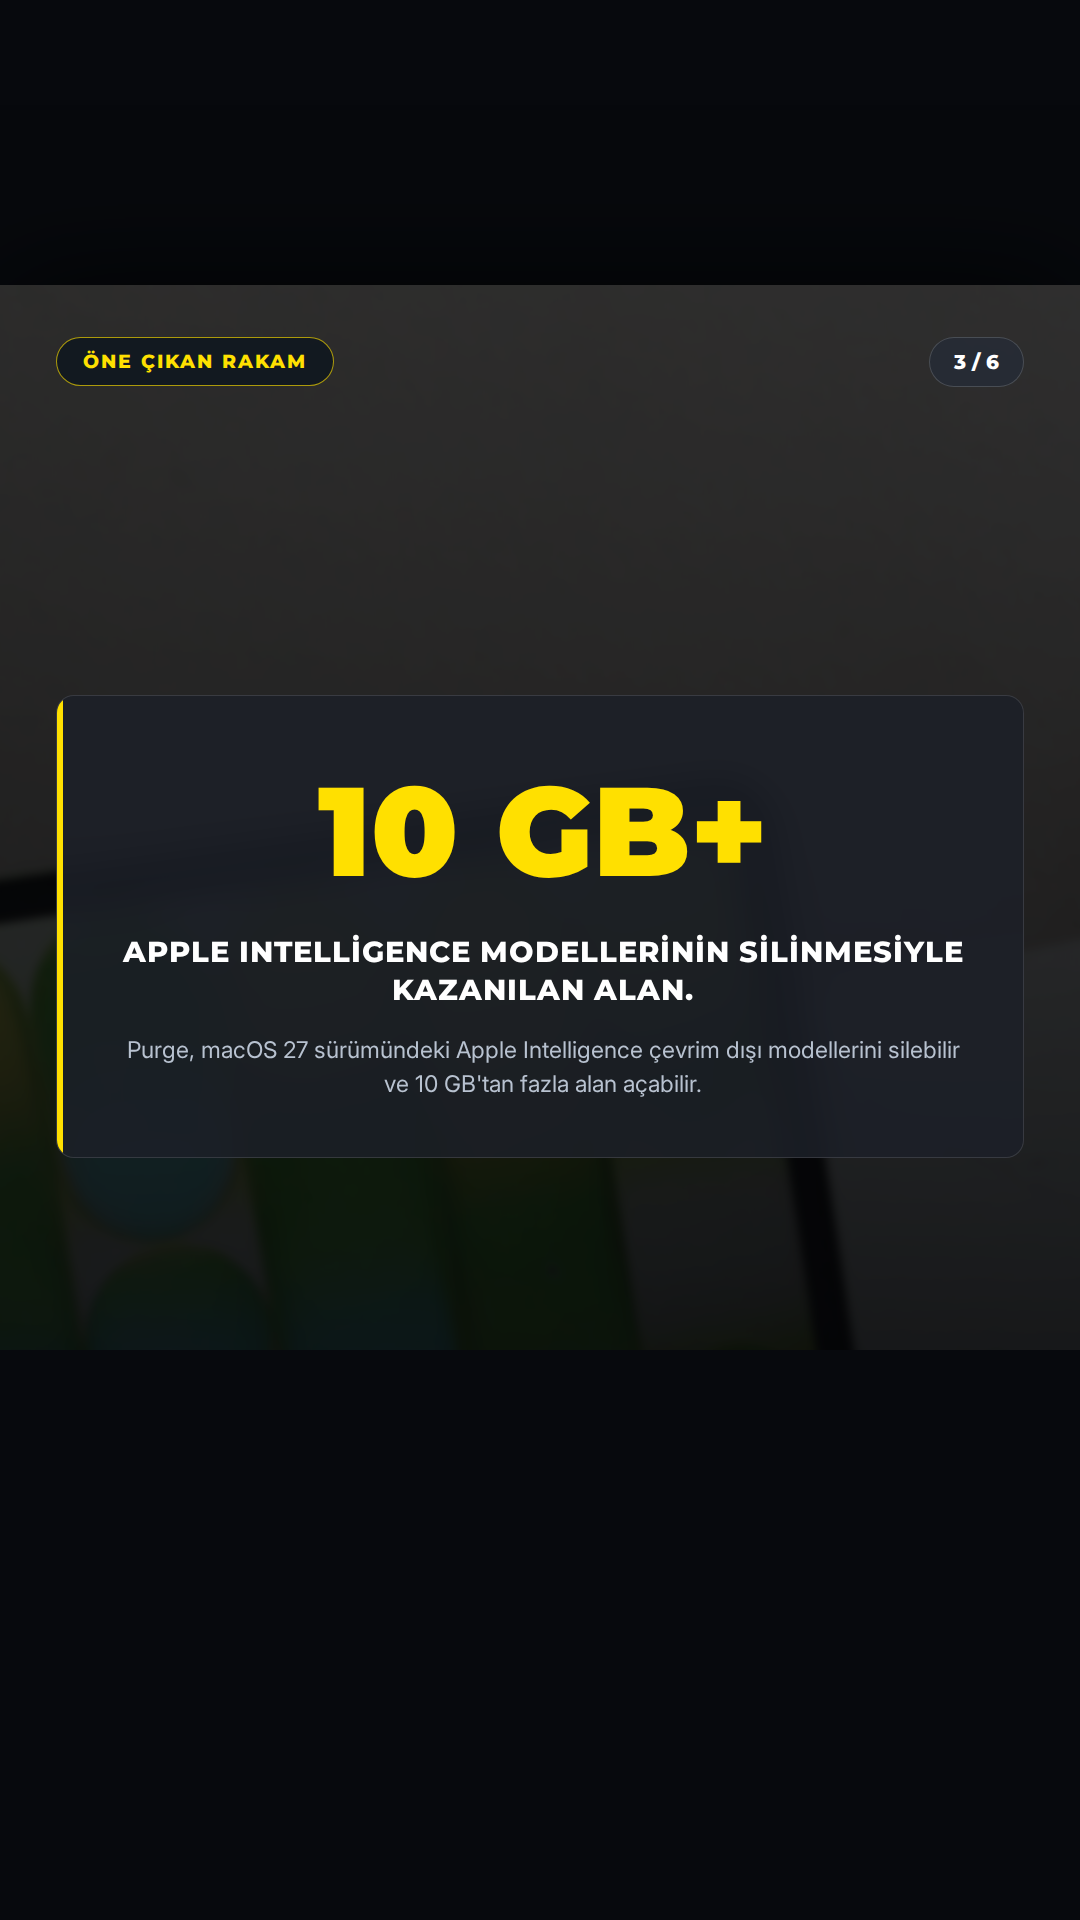
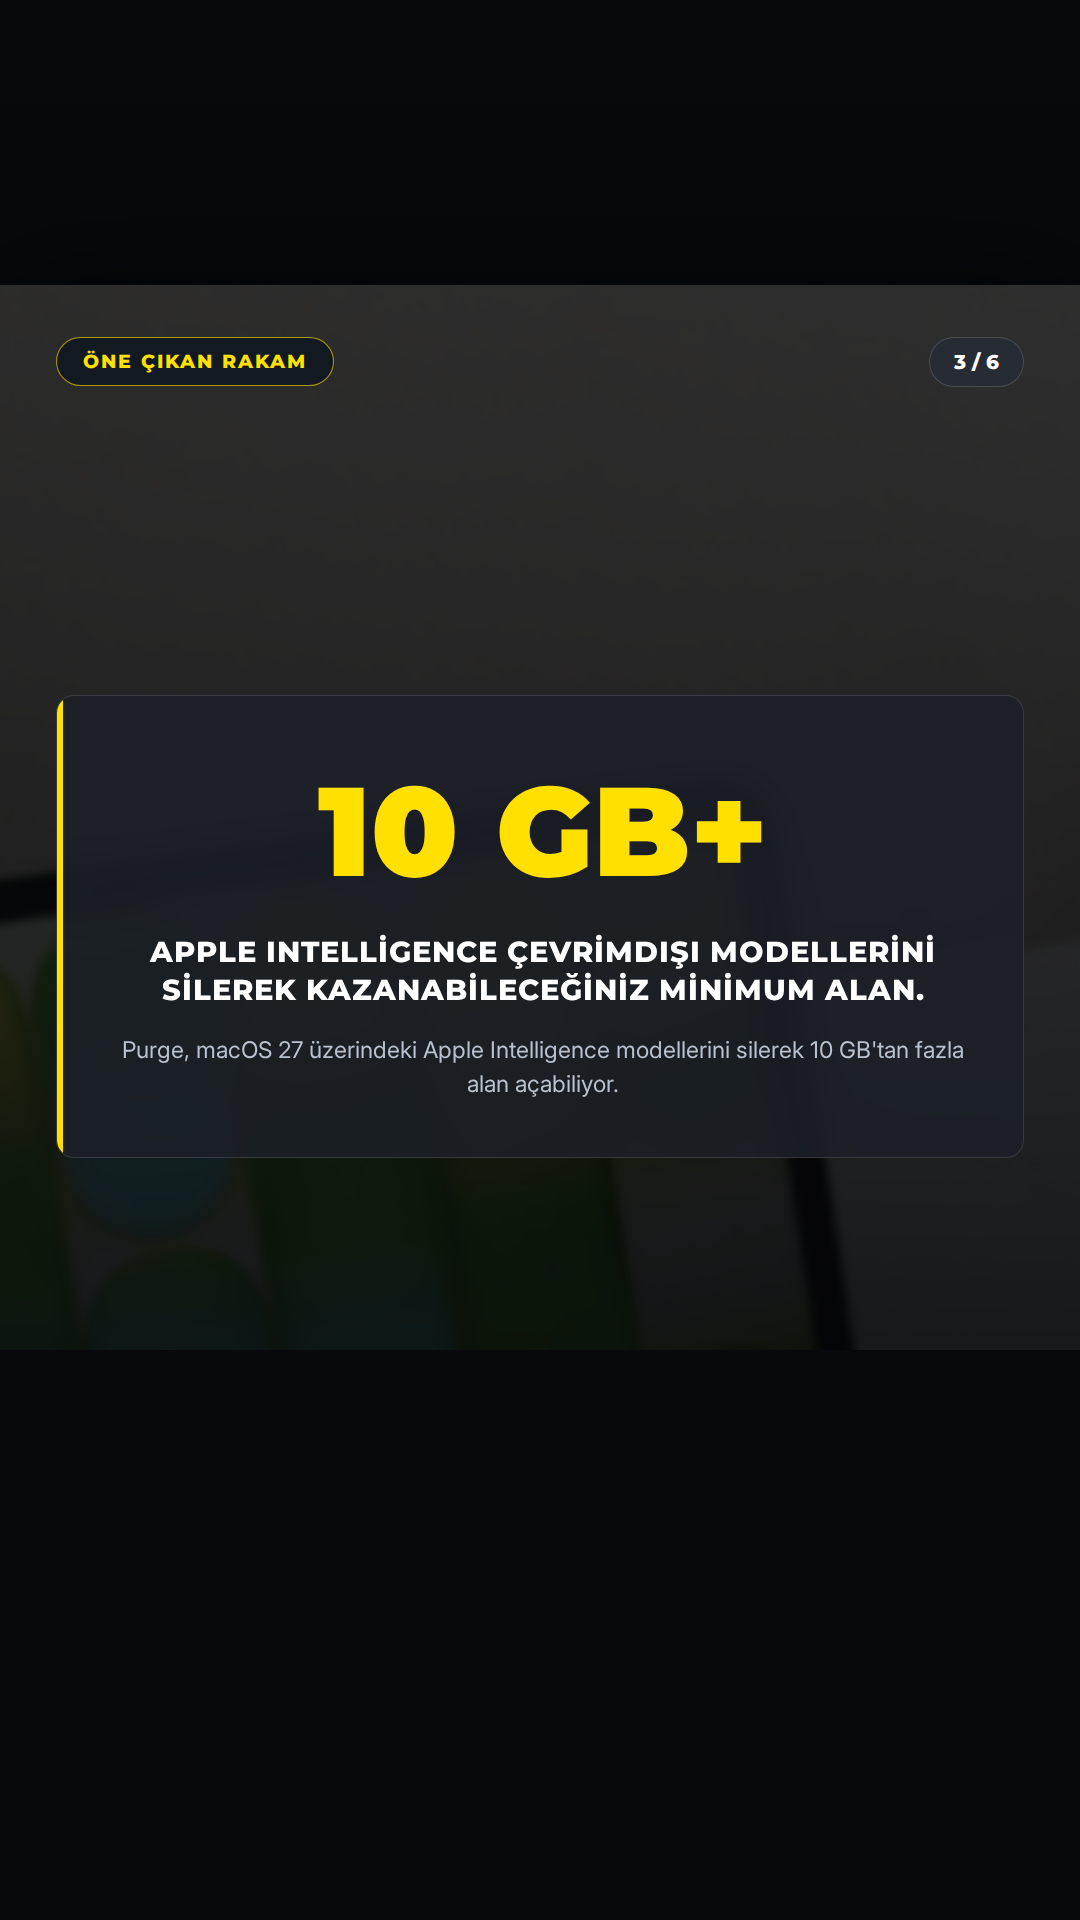
🤖 post: 2026-11-07 09:00 – This Totally Free App Can Free Up Space on Your Mac

Changed region(s): [[0.1222, 0.4688, 0.8861, 0.5938]]

diff --git a/output/2026-11-07/01-0900-this-totally-free-app-can-free-up-space-on-your/verification.md b/output/2026-11-07/01-0900-this-totally-free-app-can-free-up-space-on-your/verification.md
@@ -3,20 +3,22 @@
 **Haber:** This Totally Free App Can Free Up Space on Your Mac
 **Canonical URL:** https://www.wired.com/story/this-totally-free-app-can-free-up-space-on-your-mac-purge/
 **Kaynaklar:** Wired, The Verge, TechCrunch, IEEE Spectrum
-**Kontrol zamanı:** 2026-11-07T14:48:25+03:00
+**Kontrol zamanı:** 2026-11-07T14:52:46+03:00
 **Sonuç:** ✅ YAYINLANABİLİR
 
 ---
 
 ## İddia Bazlı Sonuçlar
 
-### 1. Purge, Mac kullanıcılarının sabit disklerinde yer kaplayan dosyaları görmesini ve temizlemesini sağlayan tamamen ücretsiz ve açık kaynaklı bir uygulamadır.
+### 1. Purge is a totally free and open source app that shows what is taking up space on your hard drive.
 - **Karar:** ✅ `supported`
 - **Kanıtlar:**
   - [https://www.wired.com/story/this-totally-free-app-can-free-up-space-on-your-mac-purge/](https://www.wired.com/story/this-totally-free-app-can-free-up-space-on-your-mac-purge/)
+    > This totally free, open source app gives you a quick breakdown of what's taking up space on your hard drive
+  - [https://www.wired.com/story/this-totally-free-app-can-free-up-space-on-your-mac-purge/](https://www.wired.com/story/this-totally-free-app-can-free-up-space-on-your-mac-purge/)
     > This totally free, open source app gives you a quick breakdown of what's taking up space on your hard drive and offers a few specific ways to free it up.
 
-### 2. Purge uygulaması reklamlara veya eklenti satışlarına yer vermemektedir.
+### 2. Purge contains no ads or upsells.
 - **Karar:** ✅ `supported`
 - **Kanıtlar:**
   - [https://www.wired.com/story/this-totally-free-app-can-free-up-space-on-your-mac-purge/](https://www.wired.com/story/this-totally-free-app-can-free-up-space-on-your-mac-purge/)
@@ -24,7 +26,7 @@
   - [https://www.wired.com/story/this-totally-free-app-can-free-up-space-on-your-mac-purge/](https://www.wired.com/story/this-totally-free-app-can-free-up-space-on-your-mac-purge/)
     > Even better: There are no ads or upsells.
 
-### 3. Purge, macOS 27 sürümündeki Apple Intelligence çevrim dışı modellerini silebilir.
+### 3. Purge can delete Apple Intelligence's offline models from macOS 27.
 - **Karar:** ✅ `supported`
 - **Kanıtlar:**
   - [https://www.wired.com/story/this-totally-free-app-can-free-up-space-on-your-mac-purge/](https://www.wired.com/story/this-totally-free-app-can-free-up-space-on-your-mac-purge/)
@@ -32,27 +34,31 @@
   - [https://www.wired.com/story/this-totally-free-app-can-free-up-space-on-your-mac-purge/](https://www.wired.com/story/this-totally-free-app-can-free-up-space-on-your-mac-purge/)
     > Purge can even delete Apple Intelligence's offline models from macOS 27, which could free up over 10 GB.
 
-### 4. Apple Intelligence modellerinin silinmesi 10 GB'tan fazla alan açabilir.
+### 4. Deleting Apple Intelligence offline models can free up over 10 GB of space.
 - **Karar:** ✅ `supported`
 - **Kanıtlar:**
   - [https://www.wired.com/story/this-totally-free-app-can-free-up-space-on-your-mac-purge/](https://www.wired.com/story/this-totally-free-app-can-free-up-space-on-your-mac-purge/)
     > Purge can even delete Apple Intelligence's offline models from macOS 27, which could free up over 10 GB.
 
-### 5. Purge, dosyaları doğrudan silmek yerine Çöp Kutusu'na gönderir.
+### 5. Purge sends files to the Trash instead of deleting them outright.
 - **Karar:** ✅ `supported`
 - **Kanıtlar:**
   - [https://www.wired.com/story/this-totally-free-app-can-free-up-space-on-your-mac-purge/](https://www.wired.com/story/this-totally-free-app-can-free-up-space-on-your-mac-purge/)
     > Finally, Purge sends files to the Trash instead of deleting them outright, so you can always recover them if something breaks.
 
-### 6. Purge uygulaması, halihazırda silinmiş olan uygulamaların geride bıraktığı verileri de temizleyebilir.
+### 6. Purge includes a tool for uninstalling apps along with their associated files such as settings and caches.
 - **Karar:** ✅ `supported`
 - **Kanıtlar:**
   - [https://www.wired.com/story/this-totally-free-app-can-free-up-space-on-your-mac-purge/](https://www.wired.com/story/this-totally-free-app-can-free-up-space-on-your-mac-purge/)
-    > Speaking of that, there's also a tool that shows leftover data from applications you've already deleted.
-  - [https://www.wired.com/story/this-totally-free-app-can-free-up-space-on-your-mac-purge/](https://www.wired.com/story/this-totally-free-app-can-free-up-space-on-your-mac-purge/)
-    > Speaking of that, there's also a tool that shows leftover data from applications you've already deleted. In my case, it was several gigabytes, all basically wasted. I highly recommend checking this section and deleting anything large that you're confident you won't use again.
+    > Up next is a tool for uninstalling apps. Note that this doesn't just remove the application—it also removes every file associated with it, including your settings, caches, and anything the application downloaded.
 
-### 7. Apple, macOS 27 sürümünde Apple Intelligence özelliklerinin tamamen devre dışı bırakılmasına olanak tanıyan bir seçenek sunmaktadır.
+### 7. Apple Intelligence offline models power features like notification summaries, writing suggestions, and Siri.
+- **Karar:** ✅ `supported`
+- **Kanıtlar:**
+  - [https://www.wired.com/story/this-totally-free-app-can-free-up-space-on-your-mac-purge/](https://www.wired.com/story/this-totally-free-app-can-free-up-space-on-your-mac-purge/)
+    > Apple's most recent operating systems come preloaded with offline AI models, which power things like notification summaries, writing suggestions, and the new AI-powered Siri.
+
+### 8. Apple provides a toggle in macOS 27 to disable Apple Intelligence features.
 - **Karar:** ✅ `supported`
 - **Kanıtlar:**
   - [https://www.wired.com/story/this-totally-free-app-can-free-up-space-on-your-mac-purge/](https://www.wired.com/story/this-totally-free-app-can-free-up-space-on-your-mac-purge/)
@@ -64,13 +70,14 @@
 
 | İddia | 1. Tur | 2. Tur | Nihai |
 |-------|--------|--------|-------|
-| Purge, Mac kullanıcılarının sabit disklerinde yer kaplayan d | supported | supported | supported |
-| Purge uygulaması reklamlara veya eklenti satışlarına yer ver | supported | supported | supported |
-| Purge, macOS 27 sürümündeki Apple Intelligence çevrim dışı m | supported | supported | supported |
-| Apple Intelligence modellerinin silinmesi 10 GB'tan fazla al | supported | supported | supported |
-| Purge, dosyaları doğrudan silmek yerine Çöp Kutusu'na gönder | supported | supported | supported |
-| Purge uygulaması, halihazırda silinmiş olan uygulamaların ge | supported | supported | supported |
-| Apple, macOS 27 sürümünde Apple Intelligence özelliklerinin  | supported | supported | supported |
+| Purge is a totally free and open source app that shows what  | supported | supported | supported |
+| Purge contains no ads or upsells. | supported | supported | supported |
+| Purge can delete Apple Intelligence's offline models from ma | supported | supported | supported |
+| Deleting Apple Intelligence offline models can free up over  | supported | supported | supported |
+| Purge sends files to the Trash instead of deleting them outr | supported | supported | supported |
+| Purge includes a tool for uninstalling apps along with their | supported | supported | supported |
+| Apple Intelligence offline models power features like notifi | supported | supported | supported |
+| Apple provides a toggle in macOS 27 to disable Apple Intelli | supported | supported | supported |
 
 ## Kaynak Metinleri
 

diff --git a/output/2026-11-07/01-0900-this-totally-free-app-can-free-up-space-on-your/captions.md b/output/2026-11-07/01-0900-this-totally-free-app-can-free-up-space-on-your/captions.md
@@ -2,42 +2,68 @@
 
 ## INSTAGRAM
 
-Mac'inizde yer kalmadı mı? Açık kaynaklı Purge uygulaması ile tanışın! Ücretsiz ve reklamsız bu araç sayesinde sabit diskinizdeki gereksiz dosyalardan kolayca kurtulabilirsiniz. Özellikle Apple Intelligence modellerini silerek 10 GB'tan fazla alan açmanız mümkün. Güvenli bir şekilde Çöp Kutusu'na gönderim yapar ve artık dosyaları temizler. Mac'inizde yer açmak için bu tür açık kaynaklı araçları güvenli buluyor musunuz? Kaynak: Wired, The Verge
+macOS cihazınızda yer açmanın en temiz yolu: Purge! Tamamen ücretsiz ve açık kaynaklı bu araç sayesinde diskinde yer açabilir, Apple Intelligence modellerini silerek 10 GB'tan fazla alan kazanabilirsin. Reklamsız deneyimiyle dikkat çeken uygulama, dosyalarını güvenle Çöp Kutusu'na gönderir.
 
-#Purge #Mac #MacOS #Yazılım #Teknoloji #Apple #AçıkKaynak #Depolama #TeknoPusula #Software #Tech
+Bilgisayarınızda yer açmak için bu tarz açık kaynaklı araçları mı tercih ediyorsunuz?
+
+Teknoloji dünyasındaki gelişmelerden haberdar olmak için Tekno Pusula'yı takipte kalın.
+
+Kaynak: Wired
+
+#Purge #macOS #Yazılım #Teknoloji #Apple #AçıkKaynak #OpenSource #TeknoPusula #Tech #Mac
 
 ## TIKTOK
 
-Mac'inizde 10 GB'tan fazla yer açmaya ne dersiniz? Ücretsiz ve açık kaynaklı Purge uygulaması, artık dosyaları ve Apple Intelligence modellerini temizleyerek depolama alanı açıyor. Kaynak: Wired, The Verge
+macOS'ta 10 GB'tan fazla yer açan ücretsiz uygulama Purge ile tanışın! Açık kaynaklı ve reklamsız.
 
-#Purge #Mac #Teknoloji #MacOS #Tech
+Kaynak: The Verge
+
+#Purge #macOS #Teknoloji #Apple #Tech
 
 ## X
 
-Mac kullanıcıları için geliştirilen ücretsiz ve açık kaynaklı Purge uygulaması, Apple Intelligence modellerini silerek 10 GB'tan fazla alan açmanızı sağlıyor. Reklamsız deneyim sunan bu aracı güvenli buluyor musunuz? Kaynak: Wired, The Verge
+macOS'ta yer açmanızı sağlayan açık kaynaklı ve ücretsiz araç Purge, Apple Intelligence modellerini silerek 10 GB'tan fazla alan kazanmanızı sağlıyor.
 
-#Purge #Mac
+Kaynak: Wired
+
+#Purge #macOS
 
 ## THREADS
 
-Mac'inizde Yer Açan Açık Kaynaklı Uygulama: Purge
+Purge ile macOS'ta Yer Açın
 
-Ücretsiz ve reklamsız Purge uygulaması, sabit diskinizde yer kaplayan gereksiz dosyaları ve Apple Intelligence modellerini güvenle temizleyerek 10 GB'tan fazla alan açmanızı sağlar.
+Tamamen ücretsiz ve açık kaynaklı Purge uygulaması, macOS cihazınızda yer açmanızı sağlar. Apple Intelligence modellerini silerek 10 GB'tan fazla alan kazanabilirsiniz.
 
-Mac'inizde yer açmak için bu tür araçları güvenli buluyor musunuz? 💭
+Bilgisayarınızda yer açmak için bu tarz açık kaynaklı araçları mı tercih ediyorsunuz? 💭
 
-Kaynak: Wired, The Verge
+Kaynak: Wired
 
 #Purge
 
 ## LINKEDIN
 
-Mac kullanıcıları için geliştirilen açık kaynaklı depolama yönetimi aracı Purge, yazılım dünyasında dikkat çekiyor. Tamamen ücretsiz ve reklamsız olan uygulama; artık dosyaları temizlemenin yanı sıra Apple Intelligence modellerini de kaldırarak 10 GB'tan fazla alan kazanılmasını sağlıyor. Dosyaları doğrudan silmek yerine güvenli bir şekilde Çöp Kutusu'na yönlendiren bu tür açık kaynaklı çözümlerin verimlilik üzerindeki etkisini nasıl değerlendiriyorsunuz? Kaynak: Wired, The Verge, TechCrunch
+macOS kullanıcıları için depolama yönetimini kolaylaştıran yeni bir açık kaynaklı araç geliştirildi: Purge. 
 
-#Yazılım #MacOS #AçıkKaynak #Teknoloji #Verimlilik
+Uygulama, özellikle Apple Intelligence çevrimdışı modellerini temizleyerek 10 GB'tan fazla depolama alanı kazanılmasına olanak tanıyor. Reklamsız ve güvenli silme altyapısıyla dikkat çeken araç, kullanıcıların sistem kaynakları üzerinde daha fazla kontrol sahibi olmasını sağlıyor.
+
+Bilgisayarınızda yer açmak için bu tarz açık kaynaklı araçları mı tercih ediyorsunuz?
+
+Teknoloji dünyasındaki gelişmelerden haberdar olmak için Tekno Pusula'yı takipte kalın.
+
+Kaynak: Wired
+
+#Purge #macOS #Yazılım #Teknoloji #Apple
 
 ## FACEBOOK
 
-Mac'inizde yer açmak artık çok daha kolay! Ücretsiz ve açık kaynaklı Purge uygulaması, sabit diskinizde yer kaplayan gereksiz dosyaları temizliyor. Üstelik Apple Intelligence modellerinin silinmesiyle 10 GB'tan fazla alan kazanabilirsiniz. Reklamsız ve güvenli bir deneyim sunan bu araç hakkında ne düşünüyorsunuz? Kaynak: Wired, The Verge
+macOS cihazınızda yer açmanızı sağlayan tamamen ücretsiz ve açık kaynaklı yeni araç Purge ile tanışın!
 
-#Purge #Mac #Teknoloji #MacOS #Yazılım
+Apple Intelligence modellerini silerek 10 GB'tan fazla alan kazanmanızı sağlayan bu uygulama, reklamsız deneyimi ve güvenli dosya silme özellikleriyle öne çıkıyor.
+
+Bilgisayarınızda yer açmak için bu tarz açık kaynaklı araçları mı tercih ediyorsunuz?
+
+Teknoloji dünyasındaki gelişmelerden haberdar olmak için Tekno Pusula'yı takipte kalın.
+
+Kaynak: Wired
+
+#Purge #macOS #Teknoloji #Apple #Yazılım
